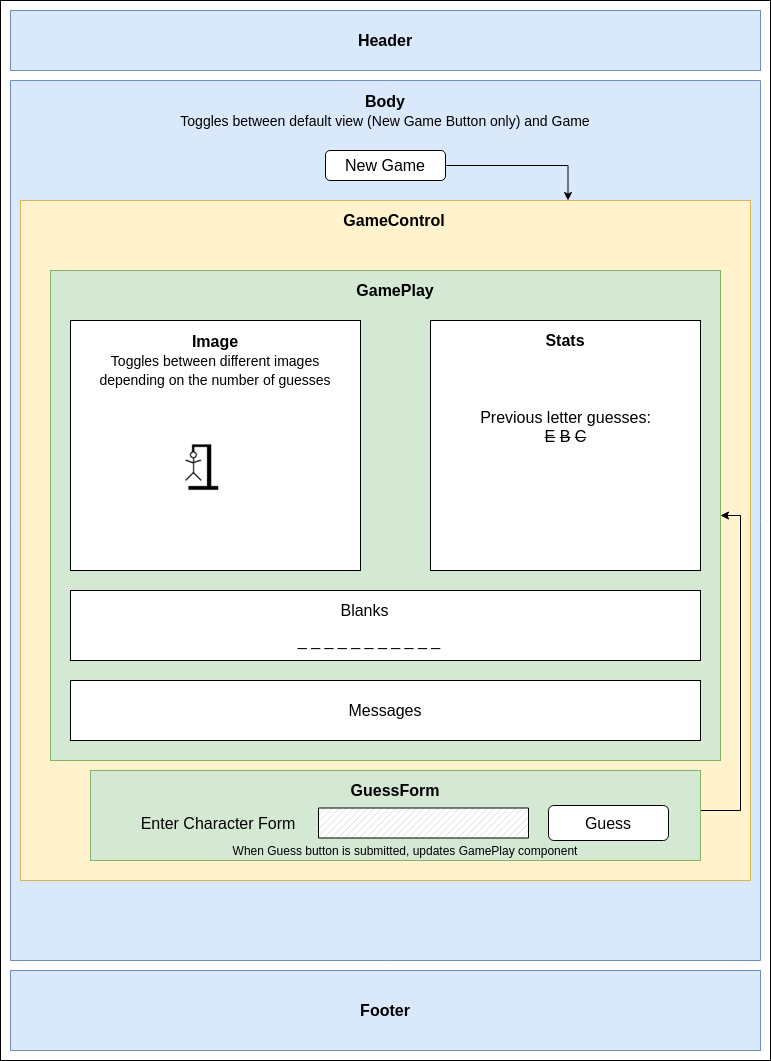
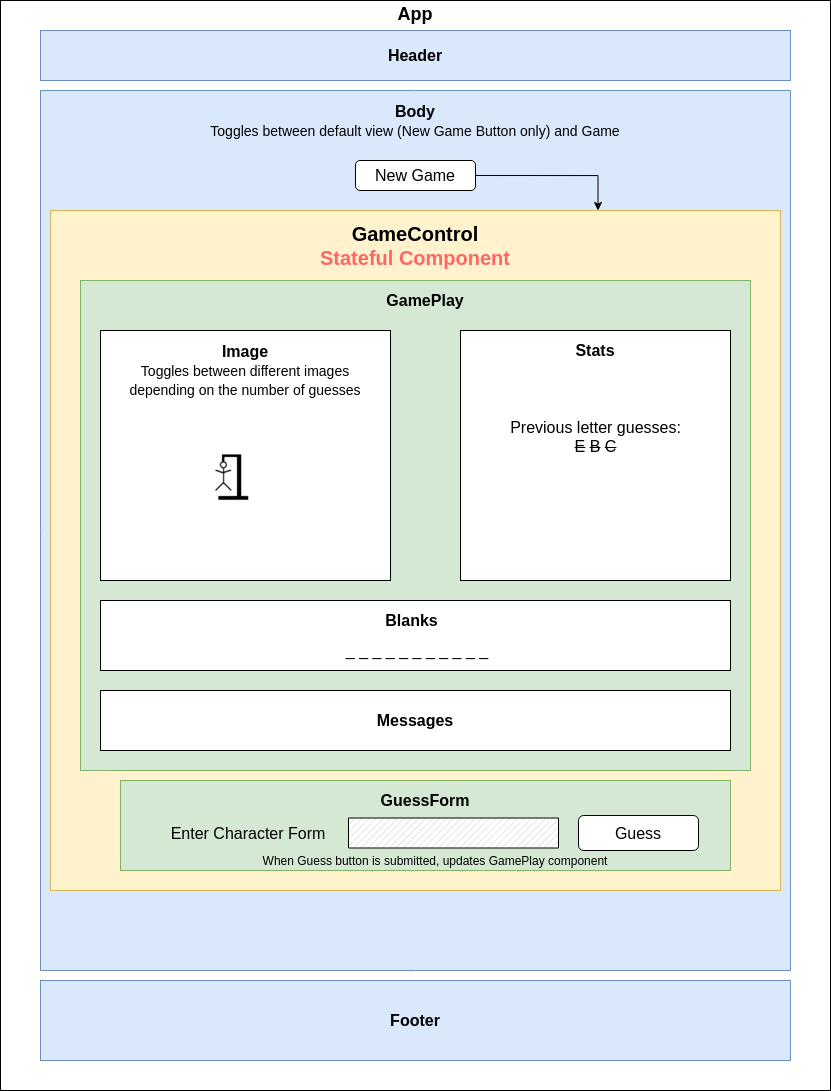
Update component diagram

diff --git a/README.md b/README.md
@@ -24,7 +24,7 @@
 - [ ] Write game with states
 - [ ] Double check the initialState has the correct properties
 
-## React Component Diagram
+## React Wireframe/Component Diagram
 
 <div align=center>
   <img style="width:500px" src="./public/hangman-component-diagram.png">
